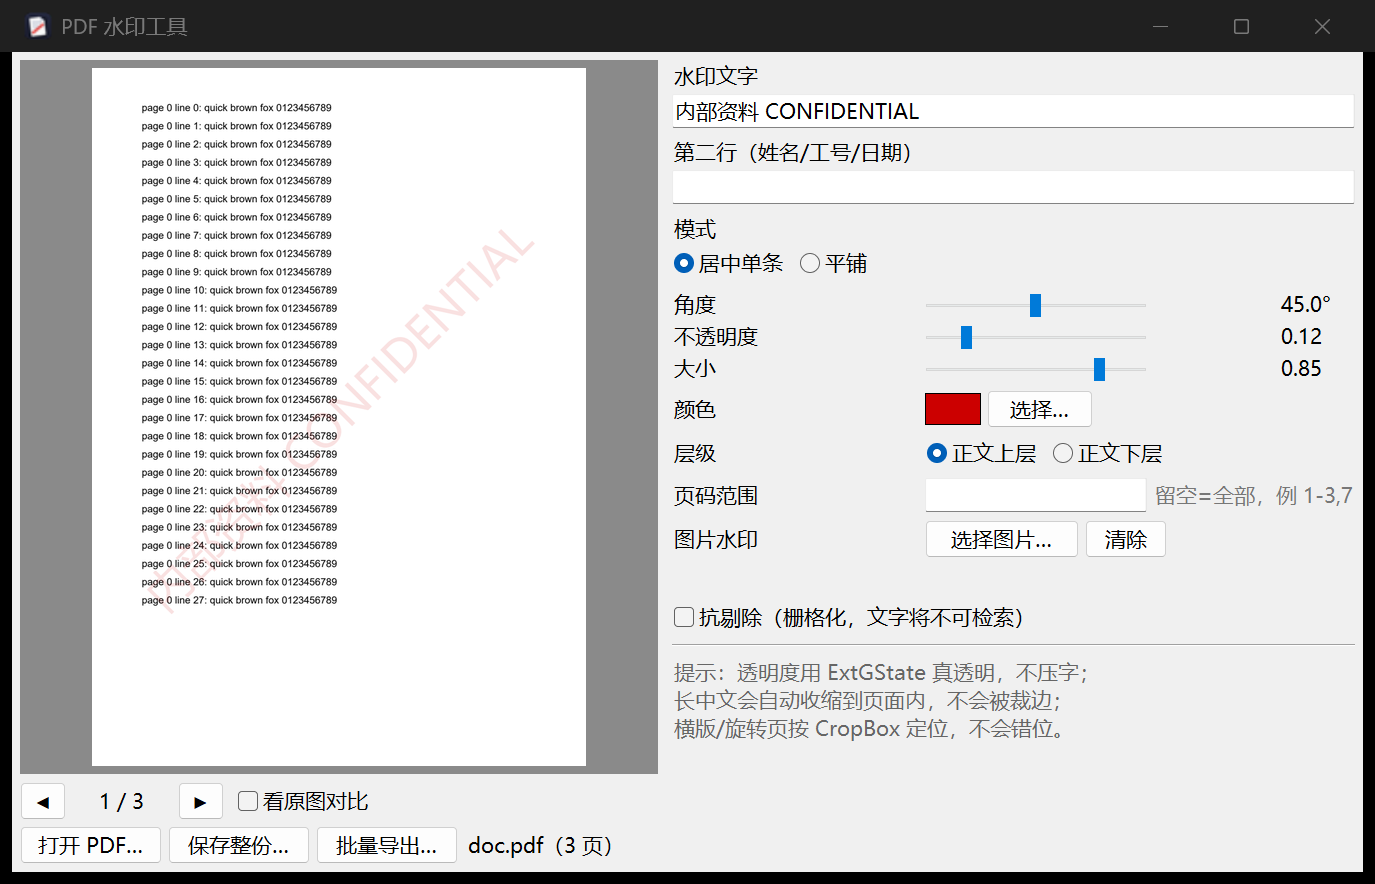
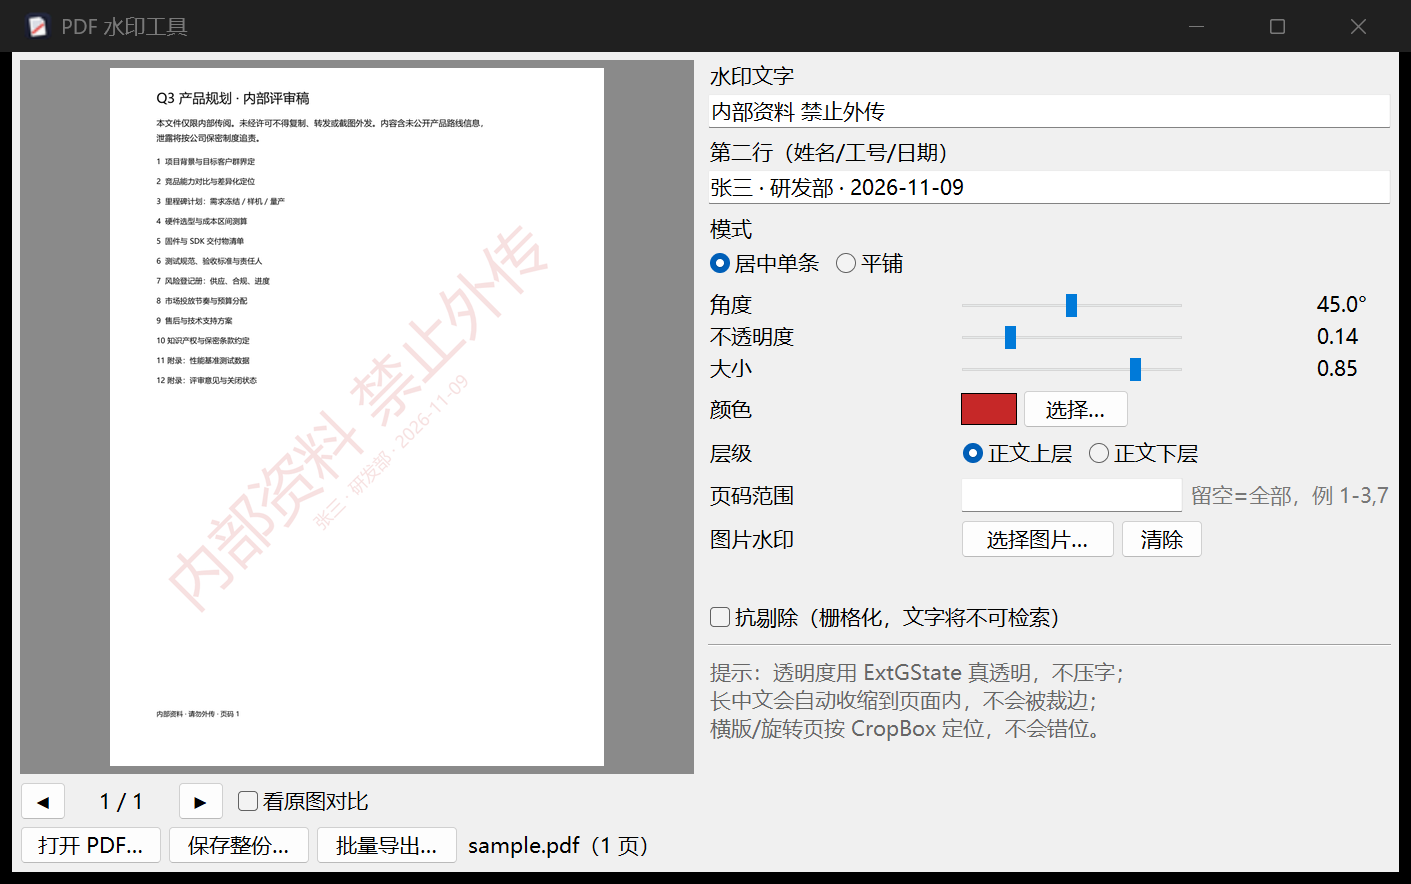
feat: 记住上次的水印参数（v1.2.0）
- 水印文字/第二行/模式/角度/不透明度/大小/颜色/页码/层级/图片/抗剔除
  改动后 600ms 防抖自动保存，关窗时强制同步落盘
- 配置 %APPDATA%\pdfwm\settings.json，原子写（.tmp + replace）
- JSON 损坏自动退回默认值；失效的图片路径启动时自动清空
- 自检加 settings roundtrip 项（含坏 JSON 容错）
- README 增「记住上次参数」章节，预览图换成真实界面截图

diff --git a/pdfwm_gui.py b/pdfwm_gui.py
@@ -7,6 +7,7 @@
 from __future__ import annotations
 
 import io
+import json
 import os
 import sys
 import tkinter as tk
@@ -21,11 +22,47 @@ import pdfwm as engine  # noqa: E402
 
 PREVIEW_MAX = (620, 760)
 
+# 配置落在 %APPDATA%\pdfwm\settings.json：exe 是单文件，程序目录可能只读且会被替换，
+# 放用户目录才能跨版本、跨启动稳定保留。
+CONFIG_DIR = os.path.join(
+    os.environ.get("APPDATA") or os.path.expanduser("~"), "pdfwm")
+CONFIG_PATH = os.path.join(CONFIG_DIR, "settings.json")
+
+# 这些是可记忆的界面参数，键名与 build_args 对齐
+PERSIST_KEYS = ("text", "owner", "mode", "angle", "opacity", "scale",
+                "color", "pages", "layer", "image", "raster")
+
 
 def resource_path(name: str) -> str:
     """打包后资源在 sys._MEIPASS 里，源码运行时在脚本同目录。"""
     base = getattr(sys, "_MEIPASS", os.path.dirname(os.path.abspath(__file__)))
     return os.path.join(base, name)
+
+
+def load_settings() -> dict:
+    """读上次的参数；任何异常都退回空字典，绝不让配置损坏导致打不开界面。"""
+    try:
+        with open(CONFIG_PATH, encoding="utf-8") as f:
+            data = json.load(f)
+        if not isinstance(data, dict):
+            return {}
+        return {k: v for k, v in data.items() if k in PERSIST_KEYS}
+    except Exception:
+        return {}
+
+
+def save_settings(values: dict) -> bool:
+    """原子写：先写 .tmp 再 replace，避免断电/崩溃留下半个 JSON。"""
+    try:
+        os.makedirs(CONFIG_DIR, exist_ok=True)
+        tmp = CONFIG_PATH + ".tmp"
+        with open(tmp, "w", encoding="utf-8") as f:
+            json.dump({k: values.get(k) for k in PERSIST_KEYS},
+                      f, ensure_ascii=False, indent=2)
+        os.replace(tmp, CONFIG_PATH)
+        return True
+    except Exception:
+        return False
 
 
 class App(ttk.Frame):
@@ -36,24 +73,37 @@ class App(ttk.Frame):
         self.page_idx = 0
         self.page_count = 0
         self._preview_job = None
+        self._save_job = None
         self._photo = None
 
-        self.v_text = tk.StringVar(value="内部资料 CONFIDENTIAL")
-        self.v_owner = tk.StringVar(value="")
-        self.v_mode = tk.StringVar(value="center")
-        self.v_angle = tk.DoubleVar(value=45)
-        self.v_opacity = tk.DoubleVar(value=0.12)
-        self.v_scale = tk.DoubleVar(value=0.85)
-        self.v_color = tk.StringVar(value="#cc0000")
-        self.v_pages = tk.StringVar(value="")
-        self.v_layer = tk.StringVar(value="over")
-        self.v_image = tk.StringVar(value="")
-        self.v_raster = tk.BooleanVar(value=False)
-        self.v_compare = tk.BooleanVar(value=False)
+        # 上次用过的参数（没有就退回默认值）
+        cfg = load_settings()
+
+        def val(key, default):
+            v = cfg.get(key, default)
+            return default if v is None else v
+
+        self.v_text = tk.StringVar(value=val("text", "内部资料 CONFIDENTIAL"))
+        self.v_owner = tk.StringVar(value=val("owner", ""))
+        self.v_mode = tk.StringVar(value=val("mode", "center"))
+        self.v_angle = tk.DoubleVar(value=val("angle", 45))
+        self.v_opacity = tk.DoubleVar(value=val("opacity", 0.12))
+        self.v_scale = tk.DoubleVar(value=val("scale", 0.85))
+        self.v_color = tk.StringVar(value=val("color", "#cc0000"))
+        self.v_pages = tk.StringVar(value=val("pages", ""))
+        self.v_layer = tk.StringVar(value=val("layer", "over"))
+        self.v_image = tk.StringVar(value=val("image", ""))
+        self.v_raster = tk.BooleanVar(value=bool(val("raster", False)))
+        self.v_compare = tk.BooleanVar(value=False)   # 对比是临时动作，不记忆
         self.v_pageinfo = tk.StringVar(value="- / -")
         self.v_status = tk.StringVar(value="打开一个 PDF 开始")
 
+        # 图片水印文件若已被删掉，别留一个坏路径在界面上
+        if self.v_image.get() and not os.path.isfile(self.v_image.get()):
+            self.v_image.set("")
+
         self._build()
+        self._bind_persist()
         if pdf_path:
             self.load(pdf_path)
 
@@ -183,6 +233,64 @@ class App(ttk.Frame):
         ttk.Scale(parent, from_=lo, to=hi, variable=var, command=on_move,
                   length=170).grid(row=row, column=1, sticky="we", pady=(4, 0))
         return row + 1
+
+    # ---------------- 记忆上次参数 ----------------
+    def _collect_settings(self) -> dict:
+        return {
+            "text": self.v_text.get(),
+            "owner": self.v_owner.get(),
+            "mode": self.v_mode.get(),
+            "angle": float(self.v_angle.get()),
+            "opacity": float(self.v_opacity.get()),
+            "scale": float(self.v_scale.get()),
+            "color": self.v_color.get(),
+            "pages": self.v_pages.get(),
+            "layer": self.v_layer.get(),
+            "image": self.v_image.get(),
+            "raster": bool(self.v_raster.get()),
+        }
+
+    def _bind_persist(self):
+        """任一参数变化都延迟落盘（防抖 600ms），并在关窗时无条件再存一次。
+
+        只挂在 var 的 trace 上，不逐个改控件回调 —— 否则拖滑块每移动 1px 就写文件。
+        """
+        for var in (self.v_text, self.v_owner, self.v_mode, self.v_angle,
+                    self.v_opacity, self.v_scale, self.v_color, self.v_pages,
+                    self.v_layer, self.v_image, self.v_raster):
+            var.trace_add("write", lambda *_a: self._schedule_settings_save())
+        try:
+            self.winfo_toplevel().protocol(
+                "WM_DELETE_WINDOW", self._on_close)
+        except Exception:
+            pass
+
+    def _schedule_settings_save(self):
+        if self._save_job:
+            try:
+                self.after_cancel(self._save_job)
+            except Exception:
+                pass
+        self._save_job = self.after(600, self._flush_settings)
+
+    def _flush_settings(self):
+        self._save_job = None
+        save_settings(self._collect_settings())
+
+    def _on_close(self):
+        # 关窗前同步写盘：异步任务来不及跑就会被销毁
+        if self._save_job:
+            try:
+                self.after_cancel(self._save_job)
+            except Exception:
+                pass
+            self._save_job = None
+        ok = save_settings(self._collect_settings())
+        self._dbg(f"settings saved on close: {ok} -> {CONFIG_PATH}")
+        try:
+            self.winfo_toplevel().destroy()
+        except Exception:
+            raise SystemExit(0)
 
     # ---------------- actions ----------------
     def pick(self):
@@ -384,6 +492,7 @@ def _selftest() -> int:
         ("rasterize strips text", ftext.strip() == ""),
         ("rasterize renders", fim.size[0] > 100),
         ("pages intact", total == 1 and stamped == 1),
+        ("settings roundtrip", _selftest_settings()),
     ]
     for name, ok in checks:
         print(f"{'OK  ' if ok else 'FAIL'} {name}")
@@ -393,6 +502,35 @@ def _selftest() -> int:
             for name, ok in checks:
                 f.write(f"{'OK' if ok else 'FAIL'} {name}\n")
     return 0 if all(ok for _, ok in checks) else 1
+
+
+def _selftest_settings() -> bool:
+    """配置读写往返：写入 → 读回 → 值一致，且坏 JSON 不炸。"""
+    global CONFIG_DIR, CONFIG_PATH
+    saved_dir, saved_path = CONFIG_DIR, CONFIG_PATH
+    tmpdir = os.path.join(os.environ.get("TEMP", "."), "pdfwm_settingtest")
+    try:
+        os.makedirs(tmpdir, exist_ok=True)
+        CONFIG_DIR = tmpdir
+        CONFIG_PATH = os.path.join(tmpdir, "settings.json")
+        probe = {"text": "内部资料 只读校验", "owner": "张三 A1234",
+                 "mode": "tile", "angle": 33.0, "opacity": 0.07,
+                 "scale": 0.5, "color": "#123456", "pages": "1-3",
+                 "layer": "under", "image": "", "raster": True}
+        if not save_settings(probe):
+            return False
+        back = load_settings()
+        if back != probe:
+            print(f"     mismatch: {back}")
+            return False
+        # 坏 JSON 必须退回 {}，不能让下次启动崩掉
+        with open(CONFIG_PATH, "w", encoding="utf-8") as f:
+            f.write("{ this is not json")
+        if load_settings() != {}:
+            return False
+        return True
+    finally:
+        CONFIG_DIR, CONFIG_PATH = saved_dir, saved_path
 
 
 def main():

diff --git a/README.md b/README.md
@@ -27,6 +27,7 @@
 | 层级 | 正文上层 / 正文下层 |
 | 页码范围 | 留空=全部，例 `1-3,7` |
 | 抗剔除 | 栅格化后水印进像素，`qpdf --qdf` / `mutool` 剔不掉（代价：文字不可检索） |
+| 记住上次参数 | 水印文字 / 第二行 / 模式 / 角度 / 不透明度 / 大小 / 颜色 / 页码 / 层级 / 图片 / 抗剔除，下次启动自动带回 |
 | 批量导出 | 读 CSV，每个收件人一份唯一水印 |
 
 ## 安装运行
@@ -89,6 +90,21 @@ python pdfwm.py in.pdf --batch recipients.csv --outdir ./out --angle 40
 
 进一步想指认到人，可以给每个收件人的**角度做微差**（43°/45°/47°）——泄露图的角度本身就是签名。
 
+## 记住上次参数
+
+界面里的水印文字、第二行、模式、角度、不透明度、大小、颜色、页码范围、层级、图片水印、抗剔除开关，改动后自动保存，下次启动原样带回。拖动滑块不会每动一下就写文件（600 ms 防抖），关窗时再强制同步存一次。
+
+配置位置：
+
+```
+%APPDATA%\pdfwm\settings.json
+```
+
+- 原子写入（先写 `.tmp` 再 replace），断电不会留下半个 JSON
+- 文件损坏或被手工改坏时自动退回默认值，不会导致启动失败
+- 图片水印的路径若已失效，启动时自动清空那一项
+- 想恢复默认：删掉这个文件即可
+
 ## 透明度与抗剔除的本质取舍
 
 矢量水印是页面内容对象，`qpdf --qdf` 或 `mutool clean` 都能删。想抗剔除只有两条路：栅格化（本项目 `--flatten`），或直接输出图片 PDF。代价是文字层消失，不可检索、不可复制。
@@ -119,6 +135,7 @@ PDFWM_SELFTEST=1 python pdfwm_gui.py
 ```
 OK render / body preserved / watermark text / cjk font
 OK tile mode / tile repeats / rasterize strips text / rasterize renders / pages intact
+OK settings roundtrip
 ```
 
 ## 文件
